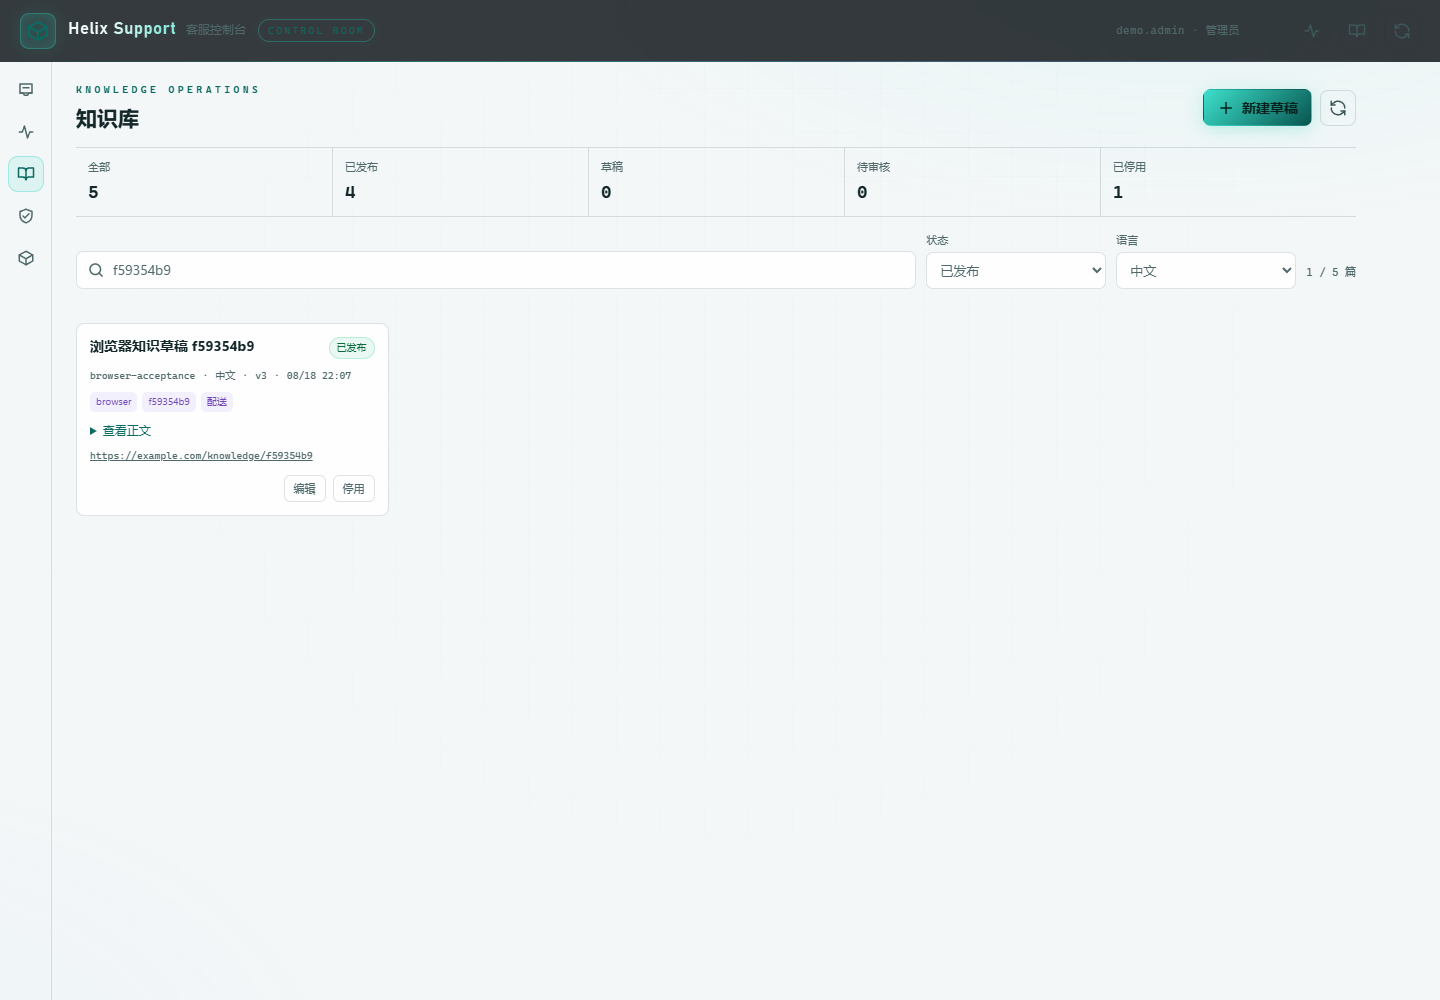
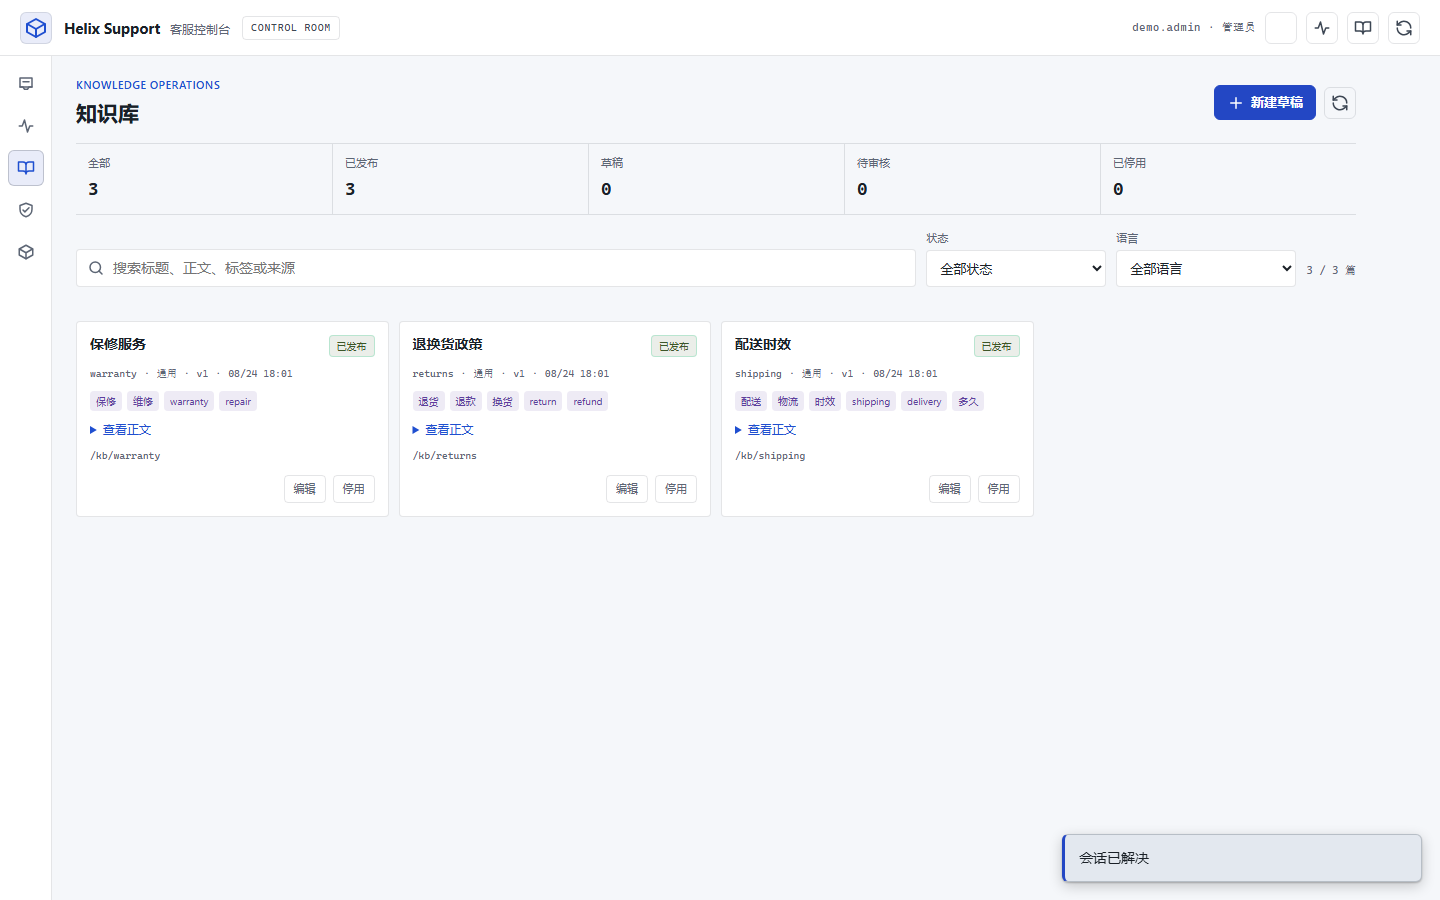
Refresh README screenshots and copy to v1.3.9 SaaS skin
- 用 scripts/readme_screenshots.py 对 clean-DB 本地服务重新捕获 6 张 README 截图(operator-workspace/handoff、quality-dashboard、knowledge-operations、tenant-admin、web-chat-mobile),覆盖旧 Art Deco 黑金图;校验金色像素占比均 <0.04%(中心区中性蓝灰)
- README 正文:版本徽章 v1.3.0→v1.3.9;界面预览补双主题说明与重捕获入口;验证与质量段刷新到 2026-08-24 全门禁复验数据(视觉四基线 0.00% diff、前端性能 CSS 84KB/LCP 356ms/CLS 0.0019/10k 队列渲染 10ms、frontend node 155 passed),并补 v1.3.9 视觉重做说明与 --teal/--teal-bright 双 token 对比度解法
- 文档导航表新增 README 截图重捕获条目

diff --git a/scripts/readme_screenshots.py b/scripts/readme_screenshots.py
@@ -1,0 +1,152 @@
+"""Capture the six README screenshots against the v1.3.9 professional SaaS skin.
+
+Mirrors the interaction paths in tests/ui_smoke.py (conversation + handoff)
+and scripts/visual_gate.py (knowledge view, mobile queue, widget), but pins
+each capture to docs/assets/screenshots/ at a stable viewport so the README
+images reflect the current design rather than the retired Art Deco palette.
+
+Usage: HELIX_BASE_URL=http://127.0.0.1:8766 python scripts/readme_screenshots.py
+"""
+
+from __future__ import annotations
+
+import os
+import sys
+from pathlib import Path
+from uuid import uuid4
+
+from playwright.sync_api import Error as PlaywrightError
+from playwright.sync_api import Page, expect, sync_playwright
+
+ROOT = Path(__file__).resolve().parent.parent
+sys.path.insert(0, str(ROOT))
+
+BASE_URL = os.getenv("HELIX_BASE_URL", "http://127.0.0.1:8766").rstrip("/")
+WIDGET_SECRET = os.getenv("WIDGET_SECRET", "helix-widget-dev-secret")
+OUT = ROOT / "docs" / "assets" / "screenshots"
+
+
+def launch(playwright):
+    try:
+        return playwright.chromium.launch(headless=True)
+    except PlaywrightError:
+        return playwright.chromium.launch(channel="msedge", headless=True)
+
+
+def wait_for_operator(page: Page) -> None:
+    page.goto(BASE_URL, wait_until="domcontentloaded")
+    expect(page.locator("#operatorIdentity")).to_contain_text("demo.admin")
+    expect(page.locator("#conversationList")).to_have_attribute("aria-busy", "false")
+
+
+def open_new_conversation(page: Page, name: str, customer_ref: str = "") -> None:
+    page.get_by_role("button", name="新建").click()
+    expect(page.get_by_role("heading", name="新建会话")).to_be_visible()
+    page.get_by_label("客户名称").fill(name)
+    if customer_ref:
+        page.get_by_label("客户身份标识 可选").fill(customer_ref)
+    with page.expect_response(
+        lambda r: r.url.endswith("/api/conversations") and r.request.method == "POST"
+    ):
+        page.get_by_role("button", name="创建会话").click()
+    expect(page.get_by_role("heading", name=name)).to_be_visible()
+
+
+def send_customer_message(page: Page, message: str) -> None:
+    page.get_by_label("客户消息", exact=True).fill(message)
+    with page.expect_response(
+        lambda r: "/api/conversations/" in r.url and r.url.endswith("/messages")
+    ):
+        page.get_by_role("button", name="发送客户消息").click()
+
+
+def widget_url() -> str:
+    from app.widget_token import sign_token
+
+    token = sign_token(
+        secret=WIDGET_SECRET,
+        tenant_id="demo",
+        customer_ref=f"VIS-{uuid4().hex[:8]}",
+        ttl_seconds=1800,
+    )
+    return f"{BASE_URL}/widget?brand=Northstar+Care&accent=teal&locale=zh#token={token}"
+
+
+def main() -> int:
+    OUT.mkdir(parents=True, exist_ok=True)
+    run_id = uuid4().hex[:6]
+    with sync_playwright() as playwright:
+        browser = launch(playwright)
+        context = browser.new_context(viewport={"width": 1440, "height": 900})
+        page = context.new_page()
+
+        # 1) operator-workspace — dark theme, conversation + evidence panel.
+        wait_for_operator(page)
+        open_new_conversation(page, f"演示会话-{run_id}", "CUST-1001")
+        page.get_by_role("button", name="折叠检查器").click()
+        page.get_by_role("button", name="展开检查器").click()
+        send_customer_message(page, "配送一般多久能到？")
+        expect(page.locator("#messages")).to_contain_text("根据当前服务政策")
+        page.get_by_role("tab", name="证据").click()
+        expect(page.locator("#inspectorEvidence")).to_contain_text("配送时效")
+        page.wait_for_timeout(400)
+        page.screenshot(path=OUT / "operator-workspace.png", full_page=False)
+        print("captured operator-workspace.png")
+
+        # 2) operator-handoff — human takeover with summary banner + audit tab.
+        open_new_conversation(page, f"人工接管-{run_id}")
+        send_customer_message(page, "我要退款并投诉，请转人工")
+        expect(page.locator("#conversationStatus")).to_have_text("等待人工")
+        with page.expect_response(
+            lambda r: r.url.endswith("/accept") and r.request.method == "POST"
+        ):
+            page.get_by_role("button", name="接入", exact=True).click()
+        expect(page.locator("#conversationStatus")).to_have_text("人工处理中")
+        page.get_by_label("人工回复", exact=True).fill("已接入，正在核验退款条件。")
+        page.get_by_role("button", name="发送人工回复", exact=True).click()
+        page.get_by_role("button", name="解决", exact=True).click()
+        expect(page.locator("#conversationStatus")).to_have_text("已解决")
+        page.get_by_role("tab", name="审计").click()
+        expect(page.locator("#inspectorAudit")).to_be_visible()
+        page.wait_for_timeout(400)
+        page.screenshot(path=OUT / "operator-handoff.png", full_page=False)
+        print("captured operator-handoff.png")
+
+        # 3) quality-dashboard — supervisor quality view with trend chart.
+        page.get_by_role("button", name="关闭低配模式")
+        page.locator('.nav-item[data-view="quality"]').click()
+        page.wait_for_selector("#qualityView[aria-busy='false'], #qualityViewBuckets", timeout=15000)
+        page.wait_for_timeout(600)
+        page.screenshot(path=OUT / "quality-dashboard.png", full_page=False)
+        print("captured quality-dashboard.png")
+
+        # 4) knowledge-operations — knowledge list + editor.
+        page.locator('.nav-item[data-view="knowledge"]').click()
+        page.wait_for_selector("#knowledgeList[aria-busy='false']", timeout=15000)
+        page.wait_for_timeout(500)
+        page.screenshot(path=OUT / "knowledge-operations.png", full_page=False)
+        print("captured knowledge-operations.png")
+
+        # 5) tenant-admin — admin cards (quota, members, webhooks, CSAT).
+        page.locator('.nav-item[data-view="admin"]').click()
+        expect(page.locator("#adminView")).to_be_visible()
+        page.wait_for_timeout(500)
+        page.screenshot(path=OUT / "tenant-admin.png", full_page=False)
+        print("captured tenant-admin.png")
+
+        # 6) web-chat-mobile — embedded Web Chat at mobile width.
+        mobile = context.new_page()
+        mobile.set_viewport_size({"width": 390, "height": 844})
+        mobile.goto(widget_url(), wait_until="domcontentloaded")
+        expect(mobile.locator("#welcomeTitle")).to_be_visible()
+        mobile.wait_for_timeout(400)
+        mobile.screenshot(path=OUT / "web-chat-mobile.png", full_page=False)
+        print("captured web-chat-mobile.png")
+
+        browser.close()
+    print("all README screenshots captured")
+    return 0
+
+
+if __name__ == "__main__":
+    sys.exit(main())
